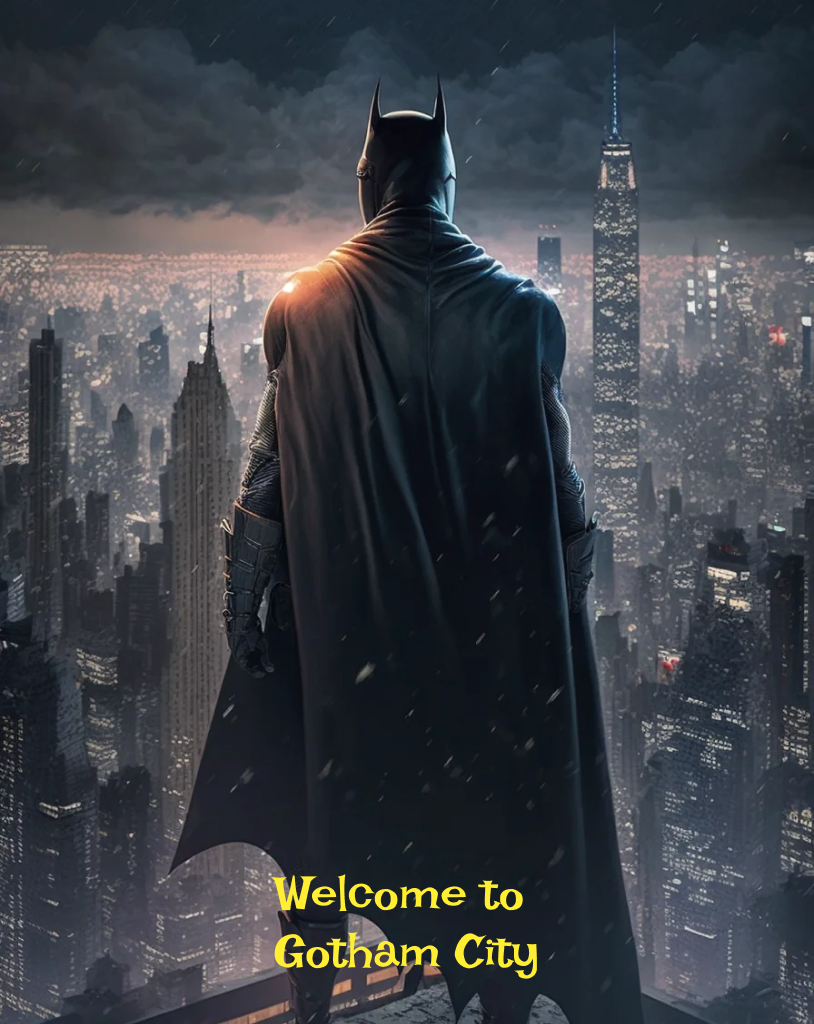
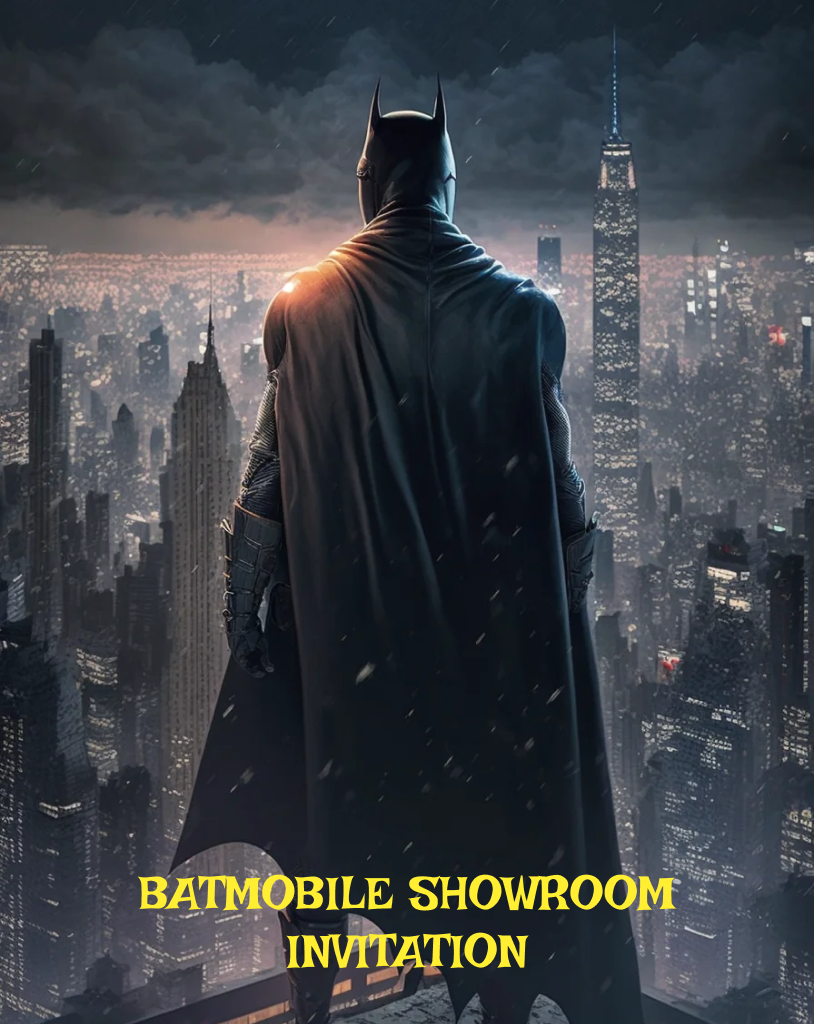
akhir

Changed region(s): [[0.1536, 0.8438, 0.8292, 0.9688]]

diff --git a/editprofile.html b/editprofile.html
@@ -5,6 +5,24 @@
     <meta name="viewport" content="width=device-width, initial-scale=1.0">
     <title>Edit Profile</title>
     <link rel="stylesheet" href="editprofile.css">
+    <script>
+        document.addEventListener('DOMContentLoaded', function () {
+            var editForm = document.forms['edit-form'];
+
+            editForm.addEventListener('submit', function (event) {
+                event.preventDefault(); // Prevent the form from submitting
+
+                // Check which button was clicked
+                var submitButton = event.submitter;
+                if (submitButton.name === 'submit') {
+                    alert("Profile changed successfully");
+                    window.location.href = "profile.html";
+                } else if (submitButton.name === 'cancel') {
+                    window.location.href = "profile.html";
+                }
+            });
+        });
+    </script>
 </head>
 <body>
     
@@ -14,8 +32,31 @@
             <h2>Edit Profile</h2>
         </div>
         <div class="edit-container">
+            <form action="" name="edit-form" method="POST" class="edit-form">
+            <img src="profile.png">
+            <table>
+                <tr>
+                    <td id="kolom1">Username</td>
+                    <td><input type="text" name="username"></td>
+                </tr>
+                <tr>
+                    <td id="kolom1">E-Mail</td>
+                    <td><input type="email" name="email"></td>
+                </tr>
+                <tr>
+                    <td id="kolom1">Bio</td>
+                    <td><input type="text" name="bio"></td>
+                </tr>
+                <tr>
+                    <td></td>
+                    <td>
+                        <input type="submit" name="cancel" value="cancel">
+                        <input type="submit" name="submit" value="Save"></td>
+                </tr>
+            </table>
+        </form>
             
-        <form name="edit-form" action="" method="POST" class="edit-form">
+        <!-- <form name="edit-form" action="" method="POST" class="edit-form">
             <img src="profile.png">
             <span>Username</span>
             <input type="text" name="username">
@@ -23,10 +64,10 @@
             <input type="email" name="email">
             <span>Bio</span>
             <input type="text" name="bio">
-            <!-- <div class="button"> -->
+             <div class="button"> 
                 <br><input type="submit" name="cancel" value="Cancel">
                 <input type="submit" name="submit" value="Save">
-        </form>
+        </form> -->
         </div>
     
     </div>

diff --git a/profile.html b/profile.html
@@ -5,6 +5,17 @@
     <meta name="viewport" content="width=device-width, initial-scale=1.0">
     <title>Profile</title>
     <link rel="stylesheet" href="profile.css">
+    <script>
+        document.addEventListener('DOMContentLoaded', function () {
+            var editForm = document.forms['user-profile'];
+
+            editForm.addEventListener('submit', function () {
+                event.preventDefault(); 
+                window.location.href = "editprofile.html";
+            });
+        });
+    </script>
+
 </head>
 <body>
     <div class="profile-container">
@@ -14,11 +25,28 @@
             <a href="message.html"><img name="logo-message" src="messeage2.png"></a>
         </div>
         <div class="isi-container">
-            <form name="isi-container" action="" method="POST" class="isi-container">
+            <!-- <form name="isi-container" action="" method="POST" class="isi-container"> -->
                 <img src="profile.png">
-                <input type="submit" name="edit-profile" value="Edit Profile">
-            </form>
+                <form name="user-profile" action="" method="POST" class="user-profile">
+                    <span>Riflex</span>
+                    <span>praktikum@pemweb.com</span>
+                    <span>Lorem ipsum dolor sit amet consectetur adipisicing elit. Itaque illo, id repellat ipsa dolorem vitae porro tenetur quasi beatae, ipsum dolores quas nisi amet! Explicabo, nulla! Porro quaerat quia optio.</span>
+                    <!-- <input type="text" name="username" id="username" value="Riflex" default>
+            
+                    <input type="email" name="email" id="email" value="praktikum@pemweb.com" default>
+            
+                    <input type="text" name="bio" id="bio" value="Lorem ipsum dolor sit amet, consectetur adipiscing elit, sed do 
+                    eiusmod tempor incididunt ut labore et dolore magna aliqua." default> -->
 
+                    <input type="submit" name="edit-profile" value="Edit Profile">
+            
+                </form>
+                <!-- <input type="text" name="username" value="Riflex">
+                <input type="email" name="email" value="praktikum@pemweb.com">
+                <span>Bio : </span>
+                <input type="text" name="bio" value=""> -->
+                
+            <!-- </form> -->
         </div>
     </div>
 </body>

diff --git a/message.html b/message.html
@@ -13,12 +13,20 @@
             <h2>Message</h2>
         </div>
         <div class="isi-message">
-            <span>Showroom 1 sent you an invitation!</span>
-            <span>Showroom 2 sent you an invitation!</span>
-            <span>Showroom 3 sent you an invitation!</span>
-            <span>Showroom 4 sent you an invitation!</span>
-            <span>Showroom 5 sent you an invitation!</span>
-            <span>Showroom 6 sent you an invitation!</span>
+            <button onclick="redirectToTicketDownload('1')">Showroom 1 sent you an invitation!</button>
+            <button onclick="redirectToTicketDownload('2')">Showroom 2 sent you an invitation!</button>
+            <button onclick="redirectToTicketDownload('3')">Showroom 3 sent you an invitation!</button>
+            <button onclick="redirectToTicketDownload('4')">Showroom 4 sent you an invitation!</button>
+            <button onclick="redirectToTicketDownload('5')">Showroom 5 sent you an invitation!</button>
+            <button onclick="redirectToTicketDownload('6')">Showroom 6 sent you an invitation!</button>
         </div>
+
+        <script>
+            function redirectToTicketDownload(showroomId) {
+                // Mengarahkan pengguna ke halaman "ticketdownload.html" dengan parameter showroomId
+                window.location.href = 'ticketdownload.html?showroomId=' + showroomId;
+            }
+        </script>
+    </div>
 </body>
 </html>

diff --git a/ticketdownload.html b/ticketdownload.html
@@ -1,0 +1,33 @@
+<!DOCTYPE html>
+<html lang="en">
+<head>
+    <meta charset="UTF-8">
+    <meta name="viewport" content="width=device-width, initial-scale=1.0">
+    <title>Invitation</title>
+    <link rel="stylesheet" href="invitation.css">
+</head>
+<body>
+    <div class="container">
+        <div class="image-container">
+            <img src="invitation-ticket.png" id="invitationImage">
+        </div>
+        <button id="downloadButton" onclick="downloadImage()">Download</button>
+    </div>
+    <script>
+        function downloadImage() {
+            // Mendapatkan elemen gambar
+            var imgElement = document.getElementById('invitationImage');
+
+            // Membuat elemen <a> untuk menetapkan properti download
+            var link = document.createElement('a');
+            link.href = imgElement.src;
+            link.download = 'invitation-ticket.png';
+
+            // Menyembunyikan elemen <a> dan mengekliknya
+            document.body.appendChild(link);
+            link.click();
+            document.body.removeChild(link);
+        }
+    </script>
+</body>
+</html>

diff --git a/invitation.css b/invitation.css
@@ -1,0 +1,50 @@
+@font-face {
+    font-family: IrishGrover-Regular;
+    src: url(Irish_Grover/IrishGrover-Regular.ttf);
+}
+
+.body {
+    display: flex;
+}
+
+.container {
+    display: flex;
+    width: 1262px;
+    height: 683px;
+    padding: 100px 144px 68px 144px;
+    flex-direction: column;
+    justify-content: flex-end;
+    align-items: center;
+    gap: 121px;
+    border-radius: 30px;
+    border: 10px solid #FFEE32;
+    background: #000;
+    box-shadow: 0px 4px 4px 0px rgba(0, 0, 0, 0.25);
+} 
+
+.image-container {
+    justify-content: center;
+}
+
+.image-container img{
+    width: 974px;
+    height: 315px;
+}
+
+.container button{
+    display: flex;
+    width: 316px;
+    height: 79px;
+    padding: 13px 10px 12px 10px;
+    justify-content: center;
+    align-items: center;
+    gap: 13px;
+    border-radius: 6px;
+    background: #FFEE32;
+    color: #000;
+    font-family: IrishGrover-Regular;
+    font-size: 40px;
+    font-style: normal;
+    font-weight: 400;
+    line-height: normal;
+}

diff --git a/profile.css b/profile.css
@@ -58,7 +58,37 @@ h2{
     font-family: IrishGrover-Regular;
 }
 
-.isi-container input[type="submit"]{
+.user-profile {
+    display: flex;
+    flex-direction: column;
+    justify-content: center;
+    align-items: center;
+    box-sizing: border-box;
+    color: #FFEE32;
+}
+
+/* .isi-container span {
+    font-size: 32px;
+    text-align: center;
+} */
+
+.user-profile span{
+    color: #FFEE32;
+    width: 938px;
+    height: 117px;
+text-align: center;
+font-family: IrishGrover-Regular;
+font-size: 32px;
+font-style: normal;
+font-weight: 400;
+line-height: normal;
+background: black;
+margin-top: 20px;
+border: 1px solid black;
+text-align: center;
+}
+
+.user-profile input[type="submit"]{
     width: 420px;
     height: auto;
     padding: 13px 10px 12px 10px;
@@ -72,5 +102,5 @@ h2{
     background-color: #FFEE32;
     color: black;
     font-size: 24px;
-    margin-top: 500px;
+    margin-top: 300px;
 }

diff --git a/signup.html b/signup.html
@@ -2,14 +2,25 @@
 <html>
 
 <head>
-    <title>Login</title>
+    <title>Sign Up</title>
     <link rel="stylesheet" href="signup.css">
+    <script>
+        document.addEventListener('DOMContentLoaded', function () {
+            var signUpForm = document.forms['signup-form'];
+
+            signUpForm.addEventListener('submit', function (event) {
+                event.preventDefault(); 
+                alert("Account created");
+                window.location.href = "login.html";
+            });
+        });
+    </script>
 </head>
 
 <body>
     <div class="container">
         <div class="image-container">
-            <img src="Rectangle 1.png">
+            <img src="Rectangle 2.png">
         </div>
         <div class="signup-container">
             <div class="signup-form">

diff --git a/editprofile.css b/editprofile.css
@@ -62,19 +62,19 @@ h2{
     align-items: center;
 }
 
-.edit-form span {
-    margin-top: 10px;
+#kolom1 {
+    margin-top: 15px;
     font-family: IrishGrover-Regular;
     font-size: 32px;
-    margin-right: 50px;
 }
 
 .edit-form input {
     width: 420px;
     height: auto;
     padding: 13px 10px;
-    margin-top: 10px;
+    margin-top: 30px;
     margin-bottom: 15px;
+    margin-left: 20px;
     box-sizing: border-box;
     border: 1px solid #FFEE32;
     border-radius: 4px;
@@ -91,7 +91,7 @@ h2{
     padding: 13px 10px 12px 10px;
     justify-content: center;
     align-items: center;
-    gap: 13px;
+    margin-top: 80px;
 }
 .edit-form input[name="bio"]{
     /* display: flex; */

diff --git a/login.html b/login.html
@@ -4,6 +4,19 @@
 <head>
     <title>Login</title>
     <link rel="stylesheet" href="login.css">
+    <script>
+        document.addEventListener('DOMContentLoaded', function () {
+            var loginForm = document.forms['login-form'];
+
+            loginForm.addEventListener('submit', function (event) {
+                event.preventDefault(); 
+
+                // Here, you can perform login authentication if needed
+
+                window.location.href = "profile.html";
+            });
+        });
+    </script>
 </head>
 
 <body>

diff --git a/message.css b/message.css
@@ -49,9 +49,9 @@ h2{
     font-family: IrishGrover-Regular;
 }
 
-.isi-message span {
+.isi-message button {
     width: 1222px;
-    height: 68px;
+    height: 70px;
     padding: 13px 10px 12px 10px;
     gap: 13px;
     flex-shrink: 0;
@@ -63,4 +63,5 @@ h2{
     font-weight: 400;
     line-height: normal;
     margin-bottom: 30px;
+    font-family: IrishGrover-Regular;
 }
